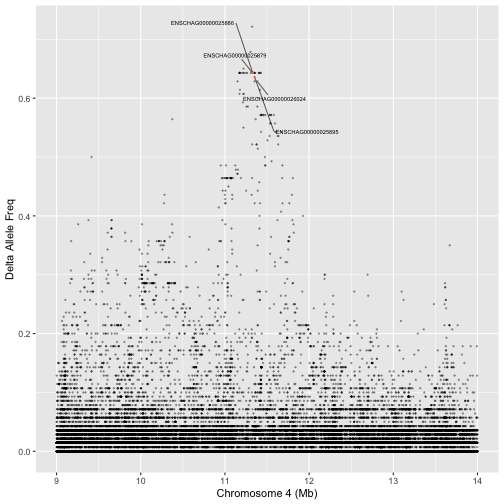
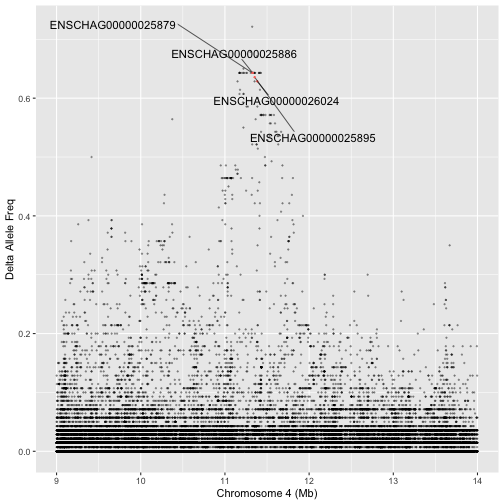
plot labels now look at least ok, changed conclusion slide to two slides since it didn't fit.

Changed region(s): [[0.4167, 0.1488, 0.744, 0.2976], [0.0893, 0.0298, 0.5952, 0.1488]]

diff --git a/herring_project_presentation.html b/herring_project_presentation.html
@@ -669,7 +669,7 @@ This as well (if needed)
 
 ---
 
-# Conclusion
+# Conclusions
 
 - Results show that only one selective sweep occurred in chromosome 4 of the baltic herring genome
 
@@ -680,6 +680,10 @@ This as well (if needed)
 - ENSCHAG00000025879, ENSCHAG00000025886 and ENSCHAG00000025895 have poorly defined functions
 
 - magi1a, qars1, espn are involved in signal transduction, glutamine-tRNA ligase activity and actin filament binding activity respectively. Hard to understand how their mutations will affect the population without further investigation
+
+---
+
+# Conclusions
 
 - rho creates G-protein-coupled photoreceptors used as light receptors
 
